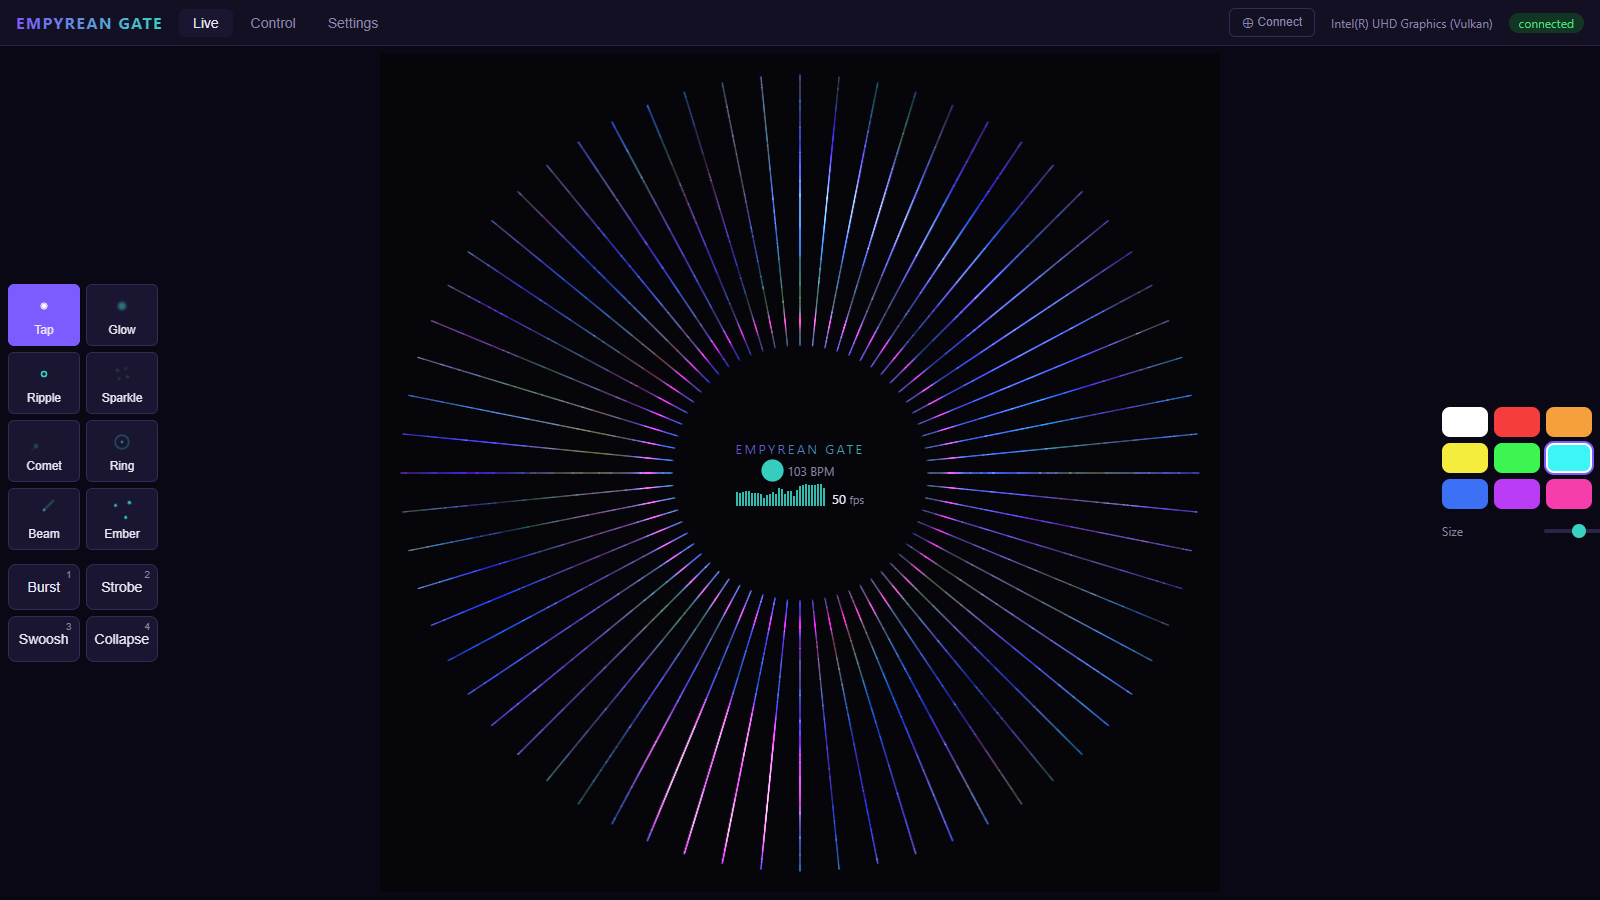
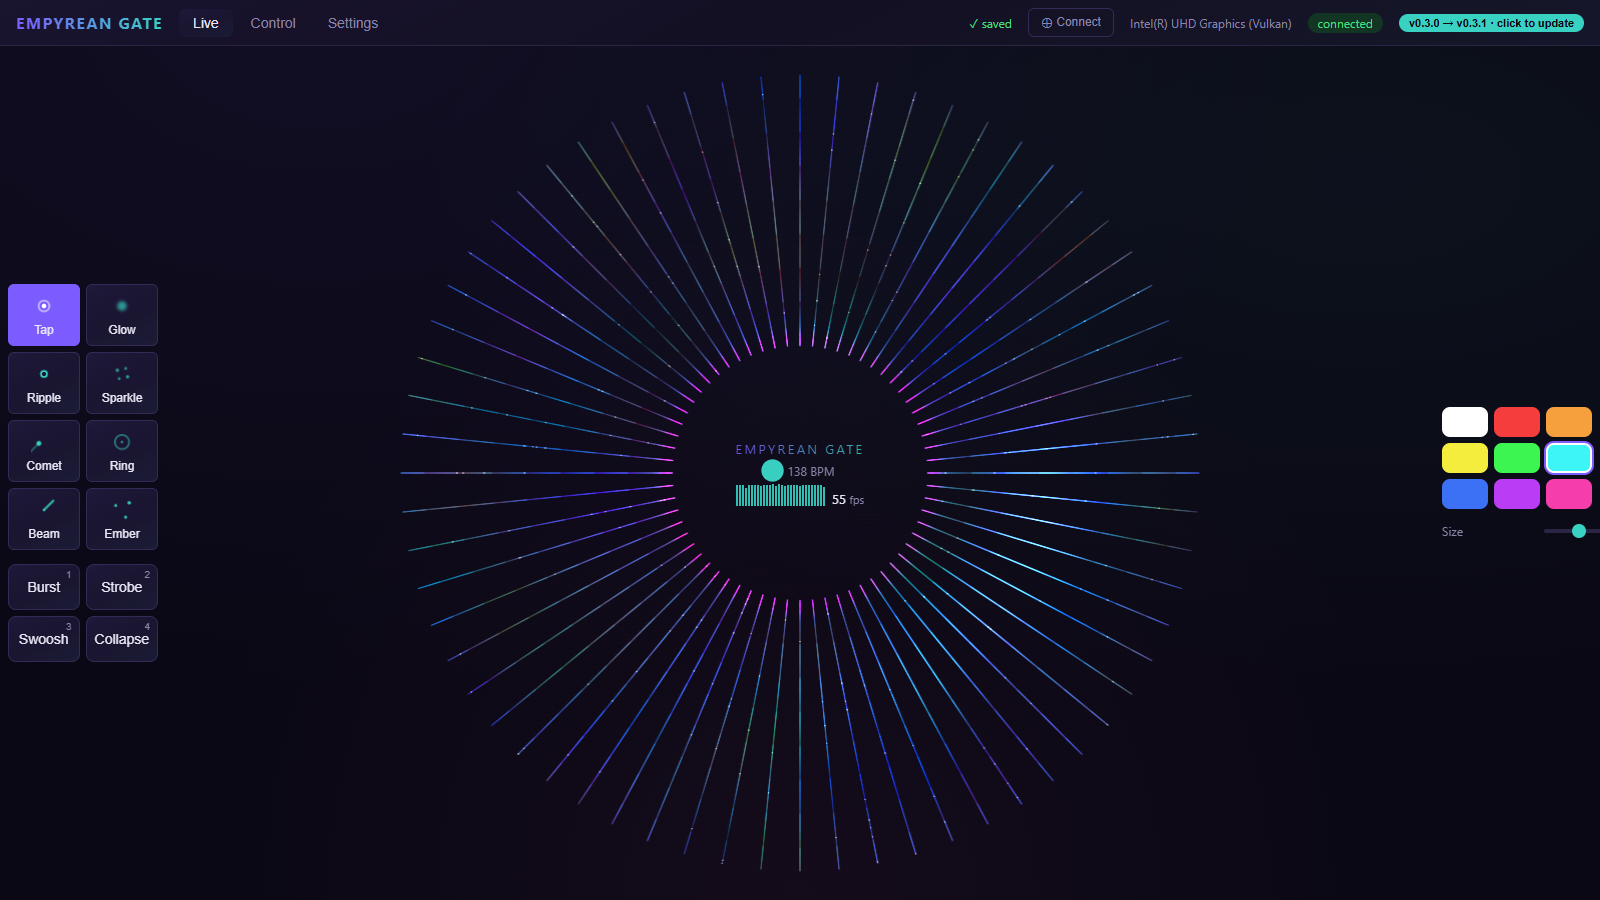
No more canvas square: transparent additive canvas + ambient gradients
- The preview canvas is fully transparent (premultiplied additive
  compositing): the array light floats directly on the page - no
  background rectangle, circle or otherwise, around the ring.
- Very subtle ambient color spots on the page (radial purple/teal/pink at
  ~5-7% alpha - the cameron.tacklind.com technique at about a third of
  its intensity) plus a faint per-surface gradient sheen on every
  panel-like element (topbar, panels, cards, corner clusters, modals).
- Documented: always dark by design (stage tool for dark venues; no
  system-following light mode).
- README screenshots recaptured with the new look, verified visually.

diff --git a/src/styles.css b/src/styles.css
@@ -1,3 +1,5 @@
+/* Always dark, deliberately: this is a stage tool used in dark venues — a
+   system-following light mode would be blinding at FOH. */
 :root {
   color-scheme: dark;
   --bg: #0a0814;
@@ -9,6 +11,14 @@
   --accent2: #38d1c2;
   --danger: #ff5c7a;
   --ok: #4ade80;
+  /* Very subtle ambient color spots (cameron.tacklind.com technique, ~1/3 the
+     intensity) + a faint per-surface sheen used by every panel-like element. */
+  --spot-1: rgba(124, 92, 255, 0.07);
+  --spot-2: rgba(56, 209, 194, 0.05);
+  --spot-3: rgba(255, 92, 170, 0.045);
+  --surface-grad:
+    linear-gradient(155deg, rgba(124, 92, 255, 0.05) 0%, transparent 45%),
+    linear-gradient(335deg, rgba(56, 209, 194, 0.035) 0%, transparent 50%);
 }
 
 * {
@@ -17,7 +27,13 @@
 
 body {
   margin: 0;
-  background: var(--bg);
+  background-color: var(--bg);
+  background-image:
+    radial-gradient(ellipse at 20% 0%, var(--spot-1) 0%, transparent 55%),
+    radial-gradient(ellipse at 85% 20%, var(--spot-2) 0%, transparent 50%),
+    radial-gradient(ellipse at 50% 100%, var(--spot-3) 0%, transparent 55%);
+  background-attachment: fixed;
+  background-repeat: no-repeat;
   color: var(--text);
   font-family: "Segoe UI", system-ui, sans-serif;
   font-size: 14px;
@@ -34,7 +50,8 @@ body {
   align-items: center;
   gap: 16px;
   padding: 8px 16px;
-  background: var(--bg2);
+  background-color: var(--bg2);
+  background-image: var(--surface-grad);
   border-bottom: 1px solid #2a2445;
 }
 
@@ -65,7 +82,8 @@ body {
 }
 
 .topbar nav button.active {
-  background: var(--panel);
+  background-color: var(--panel);
+  background-image: var(--surface-grad);
   color: var(--text);
 }
 
@@ -176,7 +194,8 @@ main {
 .corner {
   position: absolute;
   padding: 8px;
-  background: rgba(20, 16, 36, 0.75);
+  background-color: rgba(20, 16, 36, 0.75);
+  background-image: var(--surface-grad);
   border: 1px solid #2a2445;
   border-radius: 10px;
   backdrop-filter: blur(6px);
@@ -443,7 +462,8 @@ button.ghost {
 }
 
 .modal {
-  background: var(--bg2);
+  background-color: var(--bg2);
+  background-image: var(--surface-grad);
   border: 1px solid #332a55;
   border-radius: 12px;
   padding: 20px 24px;
@@ -474,7 +494,8 @@ button.ghost {
 }
 
 .client-row {
-  background: var(--panel);
+  background-color: var(--panel);
+  background-image: var(--surface-grad);
   border-radius: 8px;
   padding: 8px 12px;
   margin: 6px 0;
@@ -636,7 +657,8 @@ button.ghost {
   display: flex;
   flex-direction: column;
   gap: 14px;
-  background: var(--bg2);
+  background-color: var(--bg2);
+  background-image: var(--surface-grad);
 }
 
 .effect-row {
@@ -647,7 +669,8 @@ button.ghost {
 
 .effect-btn {
   position: relative;
-  background: var(--panel);
+  background-color: var(--panel);
+  background-image: var(--surface-grad);
   border: 1px solid #332a55;
   color: var(--text);
   padding: 14px 8px;
@@ -712,7 +735,8 @@ button.ghost {
 }
 
 .panel {
-  background: var(--bg2);
+  background-color: var(--bg2);
+  background-image: var(--surface-grad);
   border: 1px solid #2a2445;
   border-radius: 10px;
   padding: 16px;
@@ -725,7 +749,8 @@ button.ghost {
 
 .layer-card,
 .source-card {
-  background: var(--panel);
+  background-color: var(--panel);
+  background-image: var(--surface-grad);
   border-radius: 8px;
   padding: 10px 12px;
   margin: 10px 0;
@@ -882,7 +907,8 @@ input[type="range"]:focus-visible {
 }
 
 button {
-  background: var(--panel);
+  background-color: var(--panel);
+  background-image: var(--surface-grad);
   border: 1px solid #332a55;
   color: var(--text);
   border-radius: 6px;

diff --git a/src/GateCanvas.tsx b/src/GateCanvas.tsx
@@ -24,7 +24,8 @@ out vec4 frag;
 void main() {
   vec2 d = gl_PointCoord - 0.5;
   float a = smoothstep(0.5, 0.15, length(d));
-  frag = vec4(v_color * a, 1.0);
+  // Premultiplied output; alpha accumulates so bright light occludes the page.
+  frag = vec4(v_color * a, a);
 }`;
 
 interface Gl {
@@ -35,7 +36,10 @@ interface Gl {
 }
 
 function buildGl(canvas: HTMLCanvasElement, meta: PreviewMeta): Gl | null {
-  const gl = canvas.getContext("webgl2");
+  // Transparent canvas: the array's light composites additively over the page,
+  // so there is no background rectangle at all — the page gradient shows through
+  // around and inside the ring.
+  const gl = canvas.getContext("webgl2", { alpha: true, premultipliedAlpha: true });
   if (!gl) return null;
 
   const prog = gl.createProgram();
@@ -77,7 +81,7 @@ function buildGl(canvas: HTMLCanvasElement, meta: PreviewMeta): Gl | null {
   gl.enableVertexAttribArray(1);
   gl.vertexAttribPointer(1, 3, gl.UNSIGNED_BYTE, true, 0, 0);
 
-  gl.clearColor(0.02, 0.02, 0.04, 1);
+  gl.clearColor(0, 0, 0, 0);
   gl.enable(gl.BLEND);
   gl.blendFunc(gl.ONE, gl.ONE);
 
